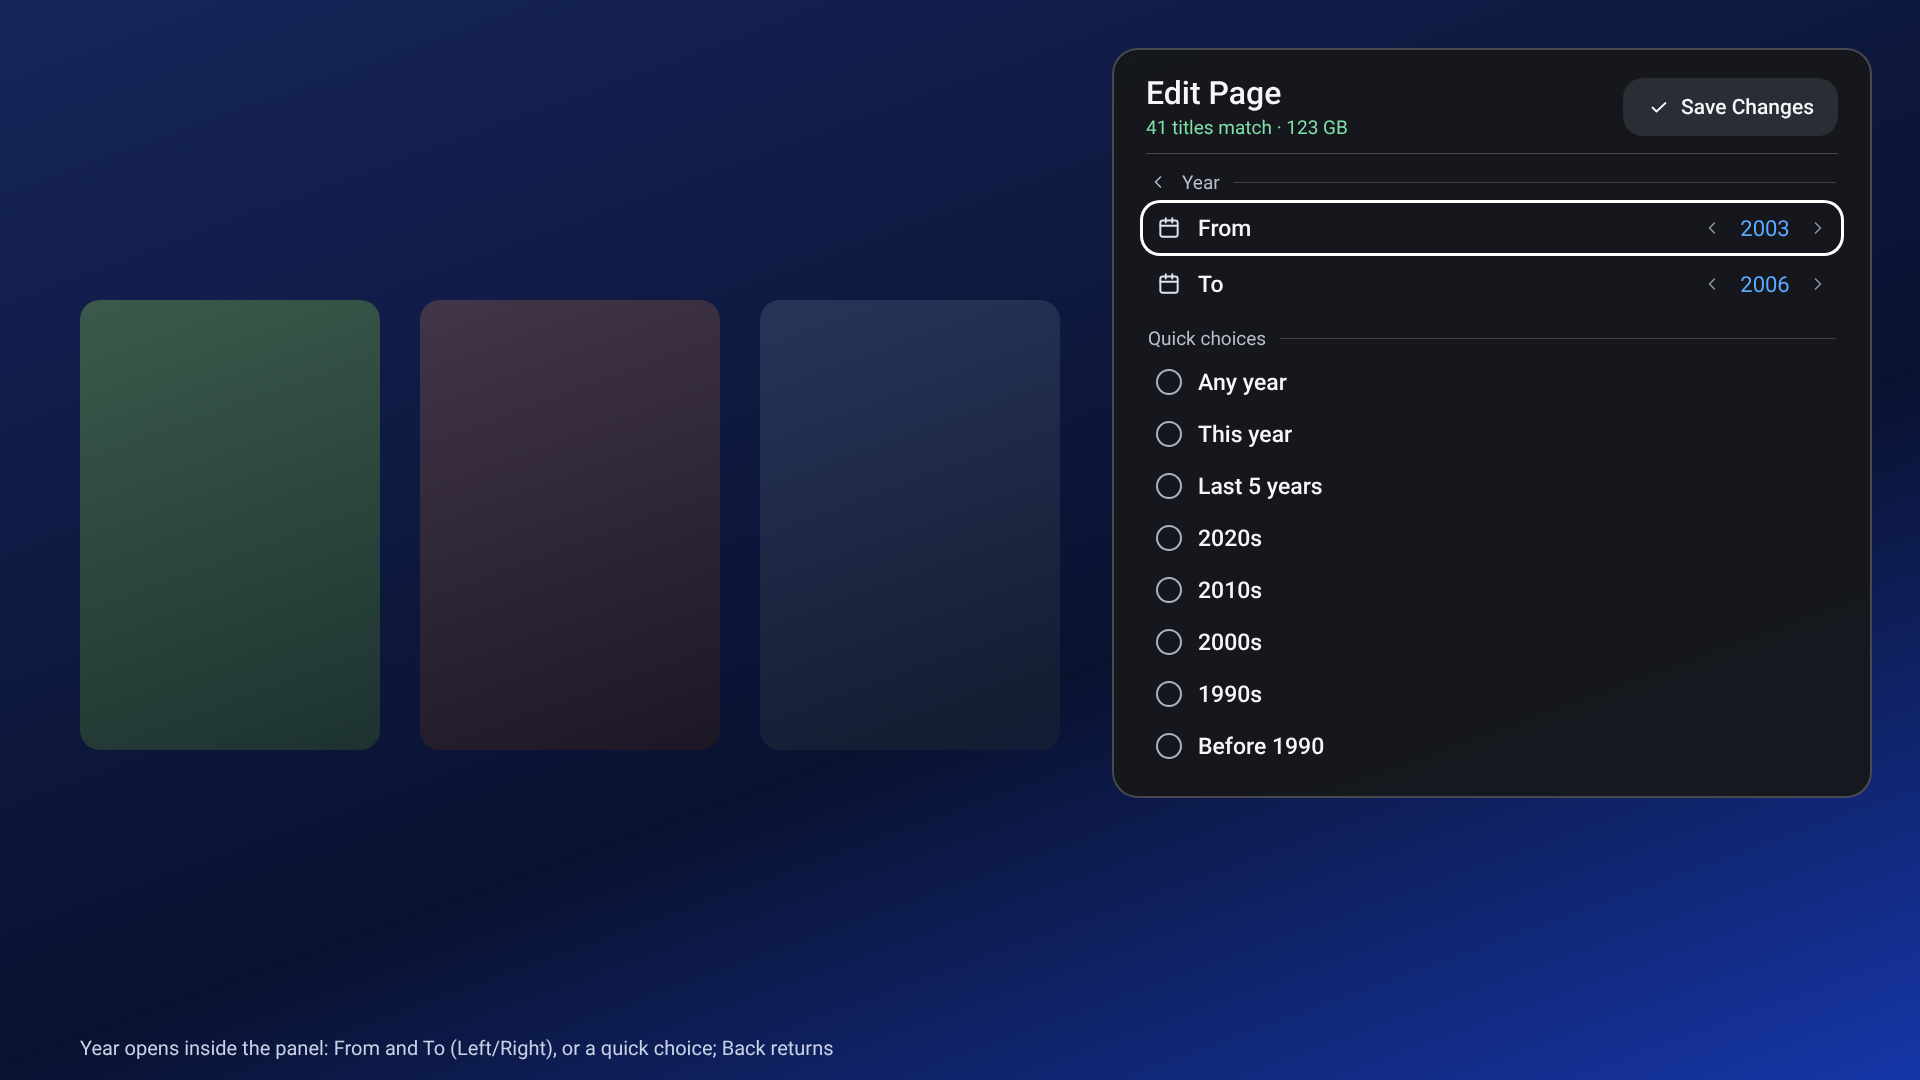
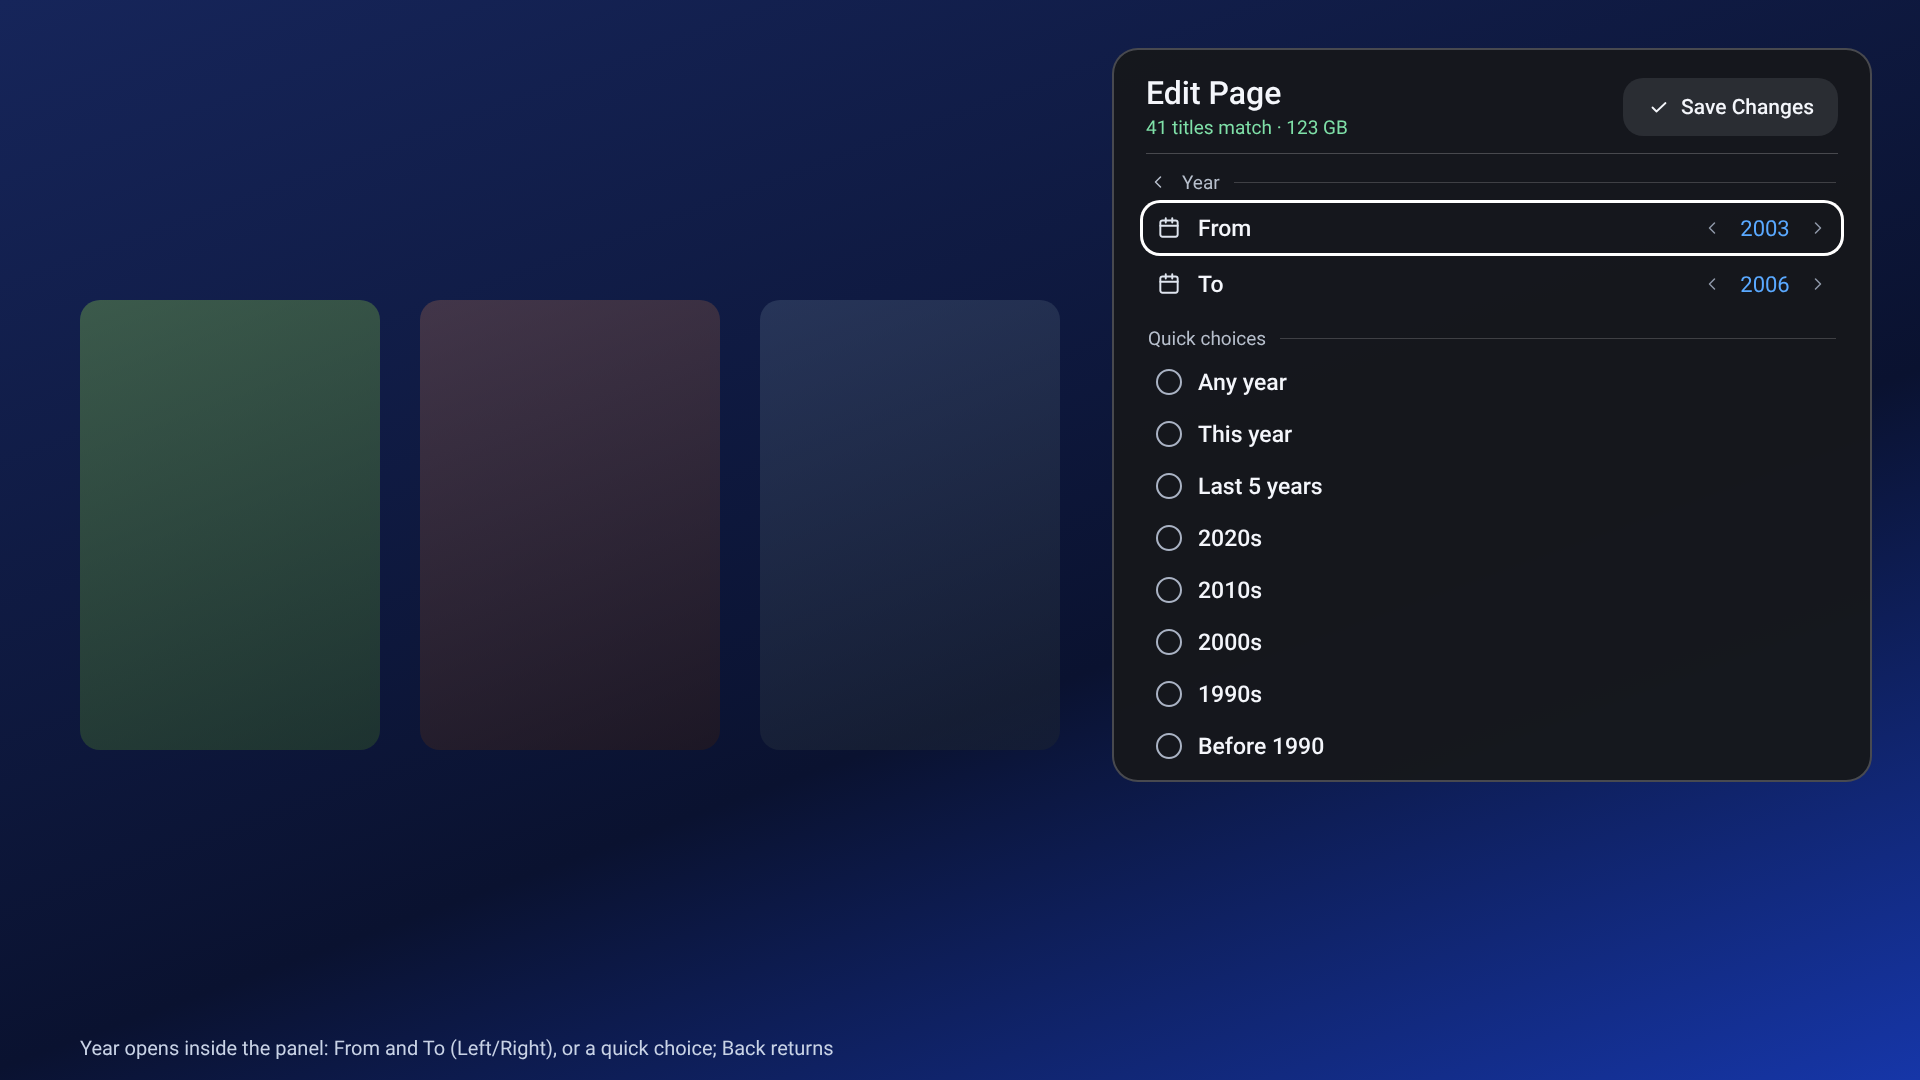
Edit Page: centre Delete Page; owner notes on playback navigation and NOVA help overlay
Claude-Session: https://claude.ai/code/session_01FtDZqamY6pdaUKwc7fqgiA

Changed region(s): [[0.5625, 0.7028, 1.0, 0.7639]]

diff --git a/docs/design/proposals/edit-page/render.js b/docs/design/proposals/edit-page/render.js
@@ -36,8 +36,8 @@ const shots = [['01-fits-on-screen.png', bg + main('save'), 'Every option fits w
 const css = `${font(400)}${font(500)}*{box-sizing:border-box;margin:0}body{width:1920px;height:1080px;overflow:hidden;font-family:R;color:#F4F6FB;background:#0b1430;position:relative}
 .bg{position:absolute;inset:0;background:linear-gradient(160deg,#16255a,#0a1230 60%,#1636a8)}.card{position:absolute;top:300px;width:300px;height:450px;border-radius:20px;opacity:.55}
 .c0{left:80px;background:linear-gradient(160deg,#5d8a4a,#2b4a2a)}.c1{left:420px;background:linear-gradient(160deg,#6a4a4a,#2a1a1a)}.c2{left:760px;background:linear-gradient(160deg,#3a4a6a,#1a2230)}
-.panel{position:absolute;right:48px;top:48px;width:760px;border-radius:26px;padding:24px 26px;background:rgba(22,24,28,.97);border:2px solid rgba(255,255,255,.22)}
-.hdr{display:flex;align-items:center;justify-content:space-between;margin:0 6px 14px}.rule{height:1px;background:rgba(255,255,255,.22);margin:0 6px 10px}.rule.low{margin:12px 6px 6px}.ttl{font-size:32px;font-weight:500}.mt{font-size:19px;color:#7fe0a8;margin-top:4px}
+.panel{position:absolute;right:48px;top:48px;width:760px;border-radius:26px;padding:24px 26px 8px;background:rgba(22,24,28,.97);border:2px solid rgba(255,255,255,.22)}
+.hdr{display:flex;align-items:center;justify-content:space-between;margin:0 6px 14px}.rule{height:1px;background:rgba(255,255,255,.22);margin:0 6px 10px}.rule.low{margin:12px 6px 8px}.ttl{font-size:32px;font-weight:500}.mt{font-size:19px;color:#7fe0a8;margin-top:4px}
 .save{display:flex;align-items:center;gap:10px;height:58px;padding:0 24px;border-radius:20px;background:#2a2d33;font-size:21px;font-weight:500}.save.f{background:#F4F6FB;color:#0B0D12}
 .h{display:flex;align-items:center;gap:14px;font-size:19px;margin:8px 8px 0;height:36px;color:#b7bfcc}.h i{flex:1;height:1px;background:rgba(255,255,255,.18)}
 .row{display:flex;align-items:center;gap:16px;height:56px;border-radius:20px;padding:0 16px;font-size:23px;font-weight:500}.row svg{color:#dfe5ef;flex:none}.focus{box-shadow:inset 0 0 0 3px #fff}

diff --git a/docs/0.155/OWNER_NOTES.md b/docs/0.155/OWNER_NOTES.md
@@ -587,3 +587,21 @@ Codex's branch `codex/0155-code-2026-11-04` (DP-01…DP-07, TV-only stages). **N
 - **Owner:** Edit Page changes approved; header (title, match count, Save Changes) now separated from the options by a
   line, and Delete Page sits at the bottom behind its own line (`01`–`03` updated).
 - **Status:** approved by the owner on 4 Nov 2026 — awaiting go-ahead to code.
+- Delete Page centred between its line and the panel's bottom edge (`01`).
+
+## 38. Playback controls: remote navigation, and the first-play tip
+- **Today (code, `PlayerController.java:2838–2854`):** the bar has focus; Left/Right seek. **Up** from the bar goes to
+  Settings, **Down** from the bar goes to Play/Pause, Up from Play/Pause comes back to the bar. Left/Right can't move
+  between the three because on the bar they seek.
+- **The blue box on first play is NOVA's** (`PlayerController.java:885–898`, `res/layout/player_help_overlay.xml`):
+  "Press the UP arrow key to display the TV menu", shown once on a TV. It is wrong for Supernova (Up goes to Settings,
+  not a TV menu). Remove it.
+- **Proposal:**
+  - Bar: Left/Right seek; **OK plays/pauses**; **Up** → the buttons (lands on Settings; Left/Right moves between
+    Play/Pause and Settings; Down returns to the bar); **Down** → Chapters · Episodes.
+  - Strip: Left/Right moves along the cards; Up → the Chapters/Episodes tabs (Left/Right switches); Up again → the bar;
+    OK jumps/plays; Back closes the strip.
+  - With no chapters and no episodes, Down does nothing.
+- **Our own first-play tip** (replaces NOVA's): a small charcoal card on the first video only, three lines with remote
+  arrows — "Left/Right seek · OK pause", "Up for Settings", "Down for Chapters and Episodes" — gone after 8 seconds or
+  any press. Mock-up once the scheme is agreed.
